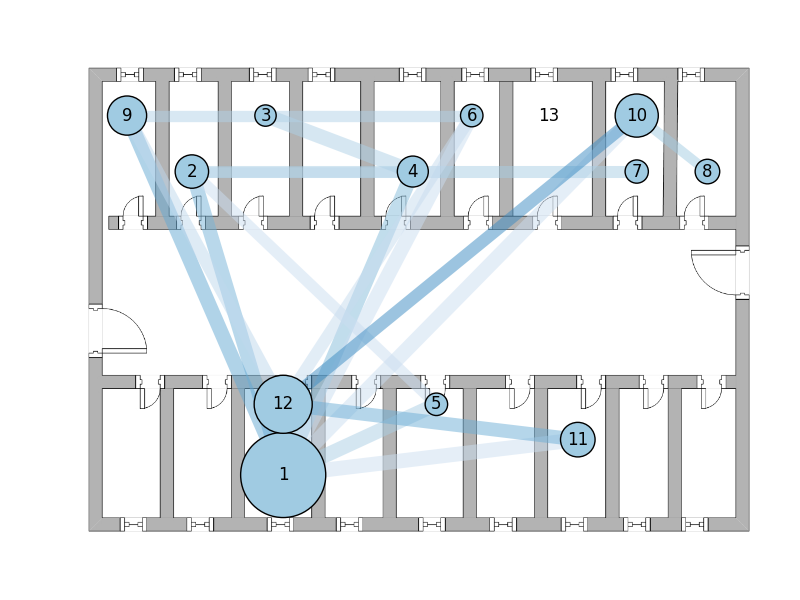
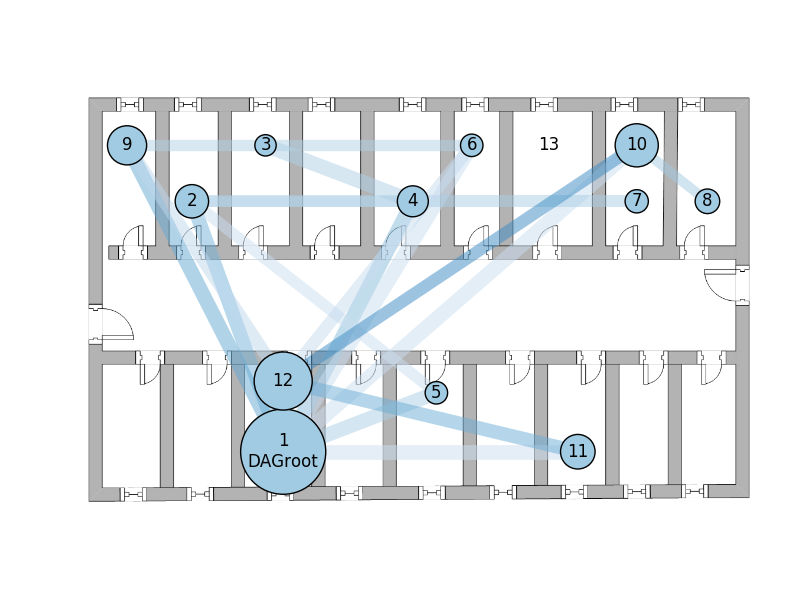
pictures refactoring

Changed region(s): [[0.0938, 0.09, 0.9375, 0.9], [0.9062, 0.48, 0.9375, 0.51]]

diff --git a/data-processing/topologyProcessor.py b/data-processing/topologyProcessor.py
@@ -131,12 +131,19 @@ class TopologyLogProcessor(LogProcessor):
         l = list(G_temp.edges_iter(data='weight'))
         edgewidth = [data[2]/8 for data in l]
 
+        #v0.1
         # pos = {1: (335, 630), 2: (220, 90), 3: (350, 90), 4: (590, 90), 5: (590, 590), 6: (710, 90),
         #        7: (840, 590), 8: (975, 590), 9: (90, 50), 10: (970, 90), 11: (710, 590), 12: (335, 530),
         #        13: (840, 90)}
 
-        pos = {1: (330, 690), 2: (175, 175), 3: (300, 80), 4: (550, 175), 5: (590, 570), 6: (650, 80),
-               7: (930, 175), 8: (1050, 175), 9: (65, 80), 10: (930, 80), 11: (830, 630), 12: (330, 570),
+        #v0.2
+        # pos = {1: (330, 690), 2: (175, 175), 3: (300, 80), 4: (550, 175), 5: (590, 570), 6: (650, 80),
+        #        7: (930, 175), 8: (1050, 175), 9: (65, 80), 10: (930, 80), 11: (830, 630), 12: (330, 570),
+        #        13: (780, 80)}
+
+        #v0.3
+        pos = {1: (330, 600), 2: (175, 175), 3: (300, 80), 4: (550, 175), 5: (590, 500), 6: (650, 80),
+               7: (930, 175), 8: (1050, 175), 9: (65, 80), 10: (930, 80), 11: (830, 600), 12: (330, 480),
                13: (780, 80)}
 
         # finally draw
@@ -155,7 +162,8 @@ class TopologyLogProcessor(LogProcessor):
             nx.draw_networkx_nodes(G, pos, ax=axis, node_color='#A0CBE2', node_size=w_nodes, with_labels=True)
 
         labels = {}
-        for i in range(1,14):
+        labels[1]="1\nDAGroot"
+        for i in range(2,14):
             labels[i]=i
 
         nx.draw_networkx_labels(G, pos, labels, font_size=12)

diff --git a/data-processing/dataSetProcessor.py b/data-processing/dataSetProcessor.py
@@ -166,7 +166,7 @@ if __name__ == '__main__':
             # else:
             #     fig.suptitle(folder.title() + '-' + file)
 
-            datafile = cbook.get_sample_data(os.getcwd()+"/images/LKN_plan_v0.2.jpg")
+            datafile = cbook.get_sample_data(os.getcwd()+"/images/LKN_plan_v0.3.jpg")
 
             #ax=plt.subplot(2,3,k)
             #ax.set_title((folder+'-'+file).title())
